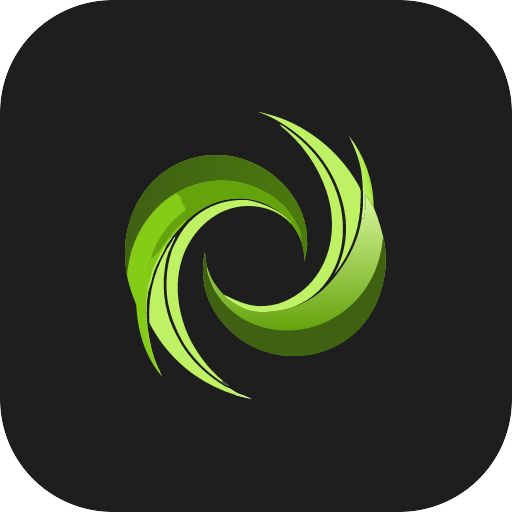
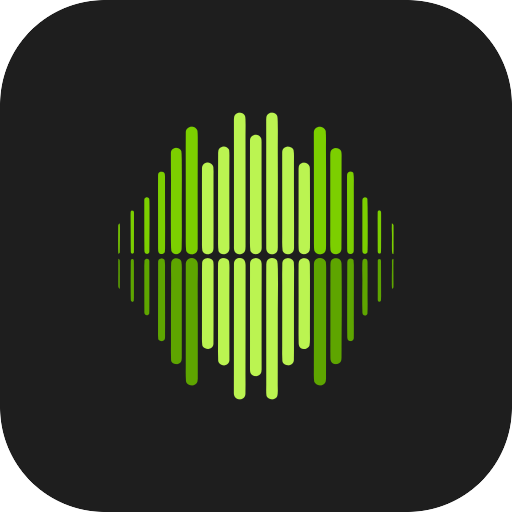
Take the palest green out of both marks
A re-export, and the tweak is the top of the ramp. The waveform's near-
white was doing the work of light rather than of colour, and at icon size
it read as a blown highlight; dropping it leaves three greens that stay
green all the way up. The lockup's lettering loses its two-tone with it
and is one green now, so the only thing that changes across the words is
the letters themselves.

Which lets the light drawable keep the same rule as before: every colour
two rungs down the ramp. The lettering lands at 8.6:1 on the page, the
waveform a step brighter than it in both themes, and the map still
asserts that it names every colour in the source.

The README's icon was still the swirl — it is generated at the adaptive
icon's own geometry, 0.56 of a square canvas on the near-black tile, so
it shows what a launcher would. The wordmark's doc comment was still
describing gradients and a single shared drawable, neither of which has
been true since the pair came back.

diff --git a/app/src/main/java/de/singular/recorder/ui/RecordScreen.kt b/app/src/main/java/de/singular/recorder/ui/RecordScreen.kt
@@ -616,14 +616,14 @@ private fun LevelTestDialog(
 }
 
 /**
- * The app's name, drawn from `title.svg` as a vector rather than set as text: the lettering is a
- * dot-matrix face with its own spacing, and the launcher icon's swirl stands between the two words,
- * neither of which survives being typed out.
+ * The app's name, drawn from `wordmark.svg` as a vector rather than set as text: the lettering is a
+ * dot-matrix face with its own spacing, and the launcher icon's waveform stands between the two
+ * words, neither of which survives being typed out.
  *
- * One drawable for both themes, where there used to be a recoloured pair. The mark now contains the
- * swirl itself — three gradients and five greens — and there is no honest way to restate that per
- * theme; a wordmark is a fixed thing, not a themed one. The lettering reads 6.1:1 on the dark page
- * and 3.0:1 on the light one, the same trade the accent already makes.
+ * A themed pair, generated from the one source by the converter's `--map`. The exported ramp is
+ * built for a dark ground, where the lettering reads 6.2:1; on the near-white page the same green
+ * would sit at 3.0:1, so the light drawable shifts the ramp down and the lettering lands at 8.6:1.
+ * The waveform stays a step brighter than the letters in both, because it is the lit part.
  *
  * Sized by width and left to find its own height, so it keeps its proportions on any screen while
  * its centre line stays on the canvas's zero line.
